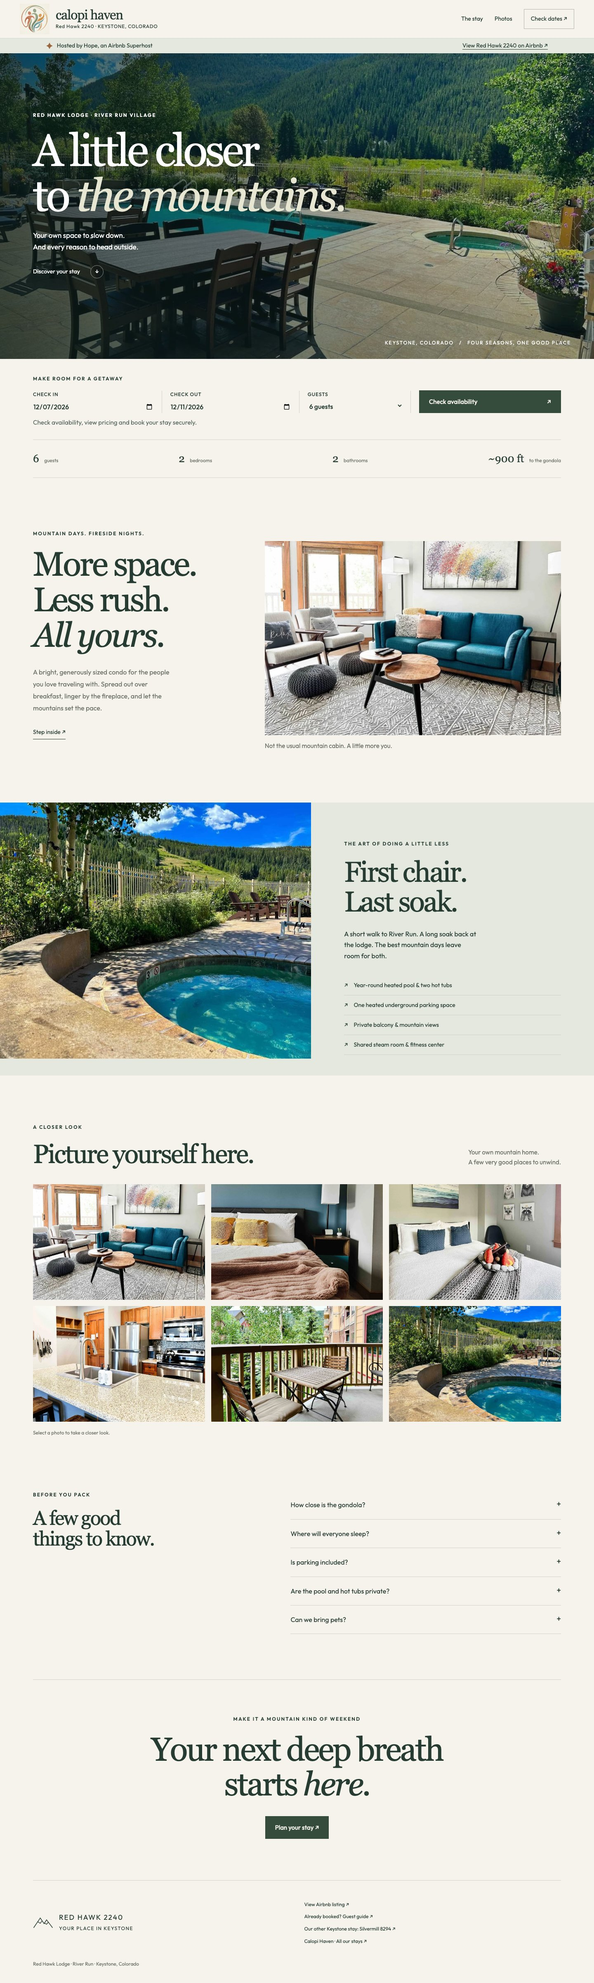
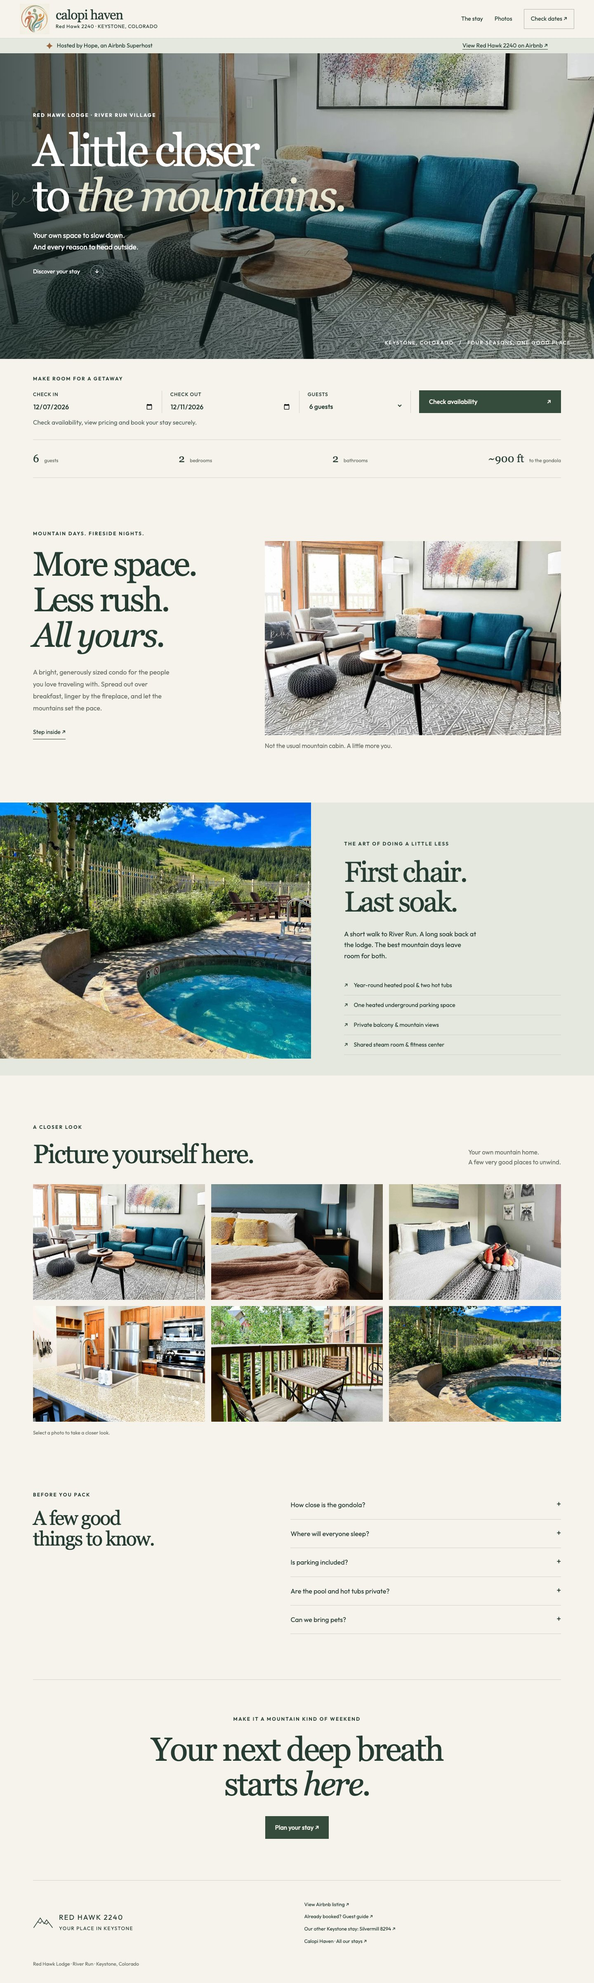
Lead each condo page with its own living room photo

Changed region(s): [[0.0, 0.0, 1.0, 0.1875]]

diff --git a/silvermill.html b/silvermill.html
@@ -1,3 +1,3 @@
 <!DOCTYPE html>
 
-<html lang="en"><head><meta charset="utf-8"/><meta content="width=device-width, initial-scale=1" name="viewport"/><meta content="noindex,nofollow" name="robots"/><title>Silvermill 8294 | Your River Run Village retreat</title><meta content="Stay at Silvermill 8294 in Keystone: a renovated one-bedroom condo for up to 4 adults and 1 child in River Run Village, with hot tubs and a short walk to the gondola. Book your stay directly." name="description"/><link href="assets/calopi-favicon.png" rel="icon" type="image/png"/><link href="styles.css" rel="stylesheet"/><link href="calopi.css" rel="stylesheet"/></head><body class="alpine selected-site"><a class="skip-link" href="#main">Skip to content</a><header class="haven-header property-header"><a aria-label="Calopi Haven home" class="haven-brand" data-preview-path="index.html" href="https://calopihaven.com/"><img alt="" class="calopi-logo" height="1024" src="assets/calopi-logo.png" width="987"/><span>calopi haven<small class="property-identity">Silvermill 8294 · KEYSTONE, COLORADO</small></span></a><nav aria-label="Main navigation"><a href="#stay">The stay</a><a href="#gallery">Photos</a><a class="haven-outline" href="#book">Check dates ↗</a></nav></header><aside aria-label="Your host and Airbnb listing" class="host-trust"><p><span aria-hidden="true">✦</span> Hosted by Hope, an Airbnb Superhost</p><a href="https://www.airbnb.com/rooms/1237080165740047360" rel="noopener" target="_blank">View Silvermill 8294 on Airbnb ↗</a></aside><main id="main"><section class="alpine-hero"><img alt="Snow-covered River Run Village and Keystone mountains at dusk" class="hero-image" fetchpriority="high" loading="eager" src="assets/silvermill/81.webp"/><div class="hero-shade"></div><div class="alpine-hero-copy wrap"><p class="eyebrow">SILVERMILL LODGE · RIVER RUN VILLAGE</p><h1>A little closer<br/>to <em>everything.</em></h1><p>Village mornings. Mountain days.<br/>Your own place in the middle of it all.</p><a class="hero-link" href="#stay">Discover your stay <span>↓</span></a></div><span class="hero-coordinate">KEYSTONE, COLORADO   /   FOUR SEASONS, ONE GOOD PLACE</span></section><section class="alpine-book wrap" id="book"><p class="eyebrow">MAKE ROOM FOR A GETAWAY</p><form action="https://app.ownerrez.com/widgets/c10114d38806484bbd3c7bfd9bf4858e" class="booking-form" data-max-adults="4" data-max-children="1" data-max-guests="5" method="get"><input name="view" type="hidden" value="form"/><input name="propertyKey" type="hidden" value="3f15f3b1b0f548328ab5276d7014358a"/><label>CHECK IN<input aria-label="Check-in date" name="or_arrival" required="" type="date"/></label><label>CHECK OUT<input aria-label="Check-out date" name="or_departure" required="" type="date"/></label><label>ADULTS<select aria-label="Adults" name="or_adults"><option value="1">1 adult</option><option selected="" value="2">2 adults</option><option value="3">3 adults</option><option value="4">4 adults</option></select></label><label>CHILDREN<select aria-label="Children" name="or_children"><option value="0">0 children</option><option value="1">1 child</option></select></label><button class="button" type="submit">Check availability <span>↗</span></button><p class="date-error" role="alert"></p></form><p class="booking-handoff">Check availability, view pricing and book your stay securely.</p></section><div class="facts wrap"><span><b>4 + 1</b> adults + child</span><span><b>1</b> bedroom</span><span><b>1</b> bathroom</span><span><b>&lt;700 ft</b> to the gondola</span></div><section class="editorial wrap" id="stay"><div><p class="eyebrow">A SMALLER STAY. A LITTLE MORE EASE.</p><h2>Village life.<br/>Mountain views.<br/><em>All yours.</em></h2><p>A renovated fifth-floor retreat for couples, small families and a few favorite friends. Slow mornings in a king bed. Coffee by the window. Evenings around the fireplace after a day on the mountain.</p><a class="underlink" href="#gallery">Step inside ↗</a></div><figure><button aria-label="Enlarge: Silvermill living room with a sectional sofa and village views" class="photo" data-caption="Silvermill living room with a sectional sofa and village views" data-photo="assets/silvermill/08.webp"><img alt="Silvermill living room with a sectional sofa and village views" loading="lazy" src="assets/silvermill/08.webp"/></button><figcaption>Room to settle in. Every reason to step outside.</figcaption></figure></section><section class="amenity-story" id="explore"><div class="amenity-photo"><img alt="Outdoor hot tubs in the Silvermill courtyard" loading="lazy" src="assets/silvermill/49.webp"/></div><div><p class="eyebrow">THE VILLAGE AT YOUR DOORSTEP</p><h2>First chair.<br/>Last soak.</h2><p>Walk through River Run Village to the gondola in under three minutes. Come home to a soak in the shared courtyard hot tubs, or find your next favorite spot for dinner just outside.</p><ul class="amenity-list"><li>On-site shared hot tubs &amp; sauna</li><li>Year-round heated pool at nearby Dakota Lodge</li><li>One heated underground parking space</li><li>Private ski locker, fitness center &amp; billiards lounge</li></ul></div></section><section class="gallery-section wrap" id="gallery"><div class="section-top"><div><p class="eyebrow">A CLOSER LOOK</p><h2>Picture yourself here.</h2></div><p>Your River Run retreat.<br/>A few very good places to unwind.</p></div><div class="gallery-grid"><button aria-label="Enlarge: Living room with fireplace and mountain-inspired artwork" class="photo" data-caption="Living room with fireplace and mountain-inspired artwork" data-photo="assets/silvermill/00.webp"><img alt="Living room with fireplace and mountain-inspired artwork" loading="lazy" src="assets/silvermill/00.webp"/></button><button aria-label="Enlarge: King bedroom with soft linens and an upholstered headboard" class="photo" data-caption="King bedroom with soft linens and an upholstered headboard" data-photo="assets/silvermill/21.webp"><img alt="King bedroom with soft linens and an upholstered headboard" loading="lazy" src="assets/silvermill/21.webp"/></button><button aria-label="Enlarge: Full kitchen with breakfast bar seating" class="photo" data-caption="Full kitchen with breakfast bar seating" data-photo="assets/silvermill/10.webp"><img alt="Full kitchen with breakfast bar seating" loading="lazy" src="assets/silvermill/10.webp"/></button><button aria-label="Enlarge: Bedroom workspace overlooking River Run Village" class="photo" data-caption="Bedroom workspace overlooking River Run Village" data-photo="assets/silvermill/25.webp"><img alt="Bedroom workspace overlooking River Run Village" loading="lazy" src="assets/silvermill/25.webp"/></button><button aria-label="Enlarge: Bathroom with shower and bathtub" class="photo" data-caption="Bathroom with shower and bathtub" data-photo="assets/silvermill/28.webp"><img alt="Bathroom with shower and bathtub" loading="lazy" src="assets/silvermill/28.webp"/></button><button aria-label="Enlarge: Shared billiards lounge at Silvermill Lodge" class="photo" data-caption="Shared billiards lounge at Silvermill Lodge" data-photo="assets/silvermill/53.webp"><img alt="Shared billiards lounge at Silvermill Lodge" loading="lazy" src="assets/silvermill/53.webp"/></button></div><p class="gallery-note">Select a photo to take a closer look.</p></section><section class="faq wrap"><div><p class="eyebrow">BEFORE YOU PACK</p><h2>A few good<br/>things to know.</h2></div><div><details><summary>How close is the gondola?</summary><p>The condo is in River Run Village, less than 700 feet from the River Run Gondola. Walk through the village to reach the lift, dining and shops.</p></details><details><summary>Where will everyone sleep?</summary><p>The one-bedroom condo sleeps up to 4 adults and 1 child, with a king bed, a twin sleeper chair in the bedroom and a pull-out sofa in the living room. There is one full bathroom.</p></details><details><summary>Is parking included?</summary><p>One heated underground garage parking space and a private ski locker are included. An elevator serves the building. Additional vehicles need separate parking arrangements.</p></details><details><summary>Where are the pool and hot tubs?</summary><p>The shared hot tubs are on site at Silvermill. The year-round heated pool is accessed at nearby Dakota Lodge. All shared amenities are subject to building access and maintenance.</p></details><details><summary>What are the check-in and check-out times?</summary><p>Check-in is after 4 PM and check-out is before 10 AM. Already booked? Use the guest guide linked below for arrival instructions.</p></details><details><summary>Where can I see the rental policies?</summary><p>Pricing and booking terms are shown for your selected stay. Review the rental agreement and cancellation policy before completing your reservation.</p></details></div></section><section class="closing wrap"><p class="eyebrow">MAKE IT A MOUNTAIN KIND OF WEEKEND</p><h2>Your next deep breath<br/>starts <em>here.</em></h2><a class="button" href="#book">Plan your stay ↗</a></section></main><footer class="site-footer wrap"><a class="brand" data-preview-path="silvermill.html" href="https://silvermill8294.com/"><svg aria-hidden="true" viewbox="0 0 64 40"><path d="M2 36 23 5l12 18 8-12 19 25M15 17l8 5 5-7M36 21l7 4 5-6" fill="none" stroke="currentColor" stroke-width="2"></path></svg><span>SILVERMILL <b>8294</b><small>YOUR PLACE IN KEYSTONE</small></span></a><div><a href="https://www.airbnb.com/rooms/1237080165740047360" rel="noopener" target="_blank">View Airbnb listing ↗</a><a href="http://checkin.silvermill8294.com/" rel="noopener" target="_blank">Already booked? Guest guide ↗</a><a data-preview-path="redhawk.html" href="https://redhawk2240.com/">Our other Keystone stay: Red Hawk 2240 ↗</a><a data-preview-path="index.html" href="https://calopihaven.com/">Calopi Haven · All our stays ↗</a></div><p>Silvermill Lodge · River Run · Keystone, Colorado</p></footer><dialog class="lightbox"><button aria-label="Close photo" class="dialog-close">×</button><img alt=""/><p></p><div class="lightbox-controls"><button aria-label="Previous photo" data-direction="-1">← Previous</button><button aria-label="Next photo" data-direction="1">Next →</button></div></dialog><script src="site.js"></script></body></html>
+<html lang="en"><head><meta charset="utf-8"/><meta content="width=device-width, initial-scale=1" name="viewport"/><meta content="noindex,nofollow" name="robots"/><title>Silvermill 8294 | Your River Run Village retreat</title><meta content="Stay at Silvermill 8294 in Keystone: a renovated one-bedroom condo for up to 4 adults and 1 child in River Run Village, with hot tubs and a short walk to the gondola. Book your stay directly." name="description"/><link href="assets/calopi-favicon.png" rel="icon" type="image/png"/><link href="styles.css" rel="stylesheet"/><link href="calopi.css" rel="stylesheet"/></head><body class="alpine selected-site"><a class="skip-link" href="#main">Skip to content</a><header class="haven-header property-header"><a aria-label="Calopi Haven home" class="haven-brand" data-preview-path="index.html" href="https://calopihaven.com/"><img alt="" class="calopi-logo" height="1024" src="assets/calopi-logo.png" width="987"/><span>calopi haven<small class="property-identity">Silvermill 8294 · KEYSTONE, COLORADO</small></span></a><nav aria-label="Main navigation"><a href="#stay">The stay</a><a href="#gallery">Photos</a><a class="haven-outline" href="#book">Check dates ↗</a></nav></header><aside aria-label="Your host and Airbnb listing" class="host-trust"><p><span aria-hidden="true">✦</span> Hosted by Hope, an Airbnb Superhost</p><a href="https://www.airbnb.com/rooms/1237080165740047360" rel="noopener" target="_blank">View Silvermill 8294 on Airbnb ↗</a></aside><main id="main"><section class="alpine-hero"><img alt="Silvermill 8294 living room with bright windows, a sectional sofa and mountain-inspired artwork" class="hero-image" fetchpriority="high" loading="eager" src="assets/silvermill/08.webp"/><div class="hero-shade"></div><div class="alpine-hero-copy wrap"><p class="eyebrow">SILVERMILL LODGE · RIVER RUN VILLAGE</p><h1>A little closer<br/>to <em>everything.</em></h1><p>Village mornings. Mountain days.<br/>Your own place in the middle of it all.</p><a class="hero-link" href="#stay">Discover your stay <span>↓</span></a></div><span class="hero-coordinate">KEYSTONE, COLORADO   /   FOUR SEASONS, ONE GOOD PLACE</span></section><section class="alpine-book wrap" id="book"><p class="eyebrow">MAKE ROOM FOR A GETAWAY</p><form action="https://app.ownerrez.com/widgets/c10114d38806484bbd3c7bfd9bf4858e" class="booking-form" data-max-adults="4" data-max-children="1" data-max-guests="5" method="get"><input name="view" type="hidden" value="form"/><input name="propertyKey" type="hidden" value="3f15f3b1b0f548328ab5276d7014358a"/><label>CHECK IN<input aria-label="Check-in date" name="or_arrival" required="" type="date"/></label><label>CHECK OUT<input aria-label="Check-out date" name="or_departure" required="" type="date"/></label><label>ADULTS<select aria-label="Adults" name="or_adults"><option value="1">1 adult</option><option selected="" value="2">2 adults</option><option value="3">3 adults</option><option value="4">4 adults</option></select></label><label>CHILDREN<select aria-label="Children" name="or_children"><option value="0">0 children</option><option value="1">1 child</option></select></label><button class="button" type="submit">Check availability <span>↗</span></button><p class="date-error" role="alert"></p></form><p class="booking-handoff">Check availability, view pricing and book your stay securely.</p></section><div class="facts wrap"><span><b>4 + 1</b> adults + child</span><span><b>1</b> bedroom</span><span><b>1</b> bathroom</span><span><b>&lt;700 ft</b> to the gondola</span></div><section class="editorial wrap" id="stay"><div><p class="eyebrow">A SMALLER STAY. A LITTLE MORE EASE.</p><h2>Village life.<br/>Mountain views.<br/><em>All yours.</em></h2><p>A renovated fifth-floor retreat for couples, small families and a few favorite friends. Slow mornings in a king bed. Coffee by the window. Evenings around the fireplace after a day on the mountain.</p><a class="underlink" href="#gallery">Step inside ↗</a></div><figure><button aria-label="Enlarge: Silvermill living room with a sectional sofa and village views" class="photo" data-caption="Silvermill living room with a sectional sofa and village views" data-photo="assets/silvermill/08.webp"><img alt="Silvermill living room with a sectional sofa and village views" loading="lazy" src="assets/silvermill/08.webp"/></button><figcaption>Room to settle in. Every reason to step outside.</figcaption></figure></section><section class="amenity-story" id="explore"><div class="amenity-photo"><img alt="Outdoor hot tubs in the Silvermill courtyard" loading="lazy" src="assets/silvermill/49.webp"/></div><div><p class="eyebrow">THE VILLAGE AT YOUR DOORSTEP</p><h2>First chair.<br/>Last soak.</h2><p>Walk through River Run Village to the gondola in under three minutes. Come home to a soak in the shared courtyard hot tubs, or find your next favorite spot for dinner just outside.</p><ul class="amenity-list"><li>On-site shared hot tubs &amp; sauna</li><li>Year-round heated pool at nearby Dakota Lodge</li><li>One heated underground parking space</li><li>Private ski locker, fitness center &amp; billiards lounge</li></ul></div></section><section class="gallery-section wrap" id="gallery"><div class="section-top"><div><p class="eyebrow">A CLOSER LOOK</p><h2>Picture yourself here.</h2></div><p>Your River Run retreat.<br/>A few very good places to unwind.</p></div><div class="gallery-grid"><button aria-label="Enlarge: Living room with fireplace and mountain-inspired artwork" class="photo" data-caption="Living room with fireplace and mountain-inspired artwork" data-photo="assets/silvermill/00.webp"><img alt="Living room with fireplace and mountain-inspired artwork" loading="lazy" src="assets/silvermill/00.webp"/></button><button aria-label="Enlarge: King bedroom with soft linens and an upholstered headboard" class="photo" data-caption="King bedroom with soft linens and an upholstered headboard" data-photo="assets/silvermill/21.webp"><img alt="King bedroom with soft linens and an upholstered headboard" loading="lazy" src="assets/silvermill/21.webp"/></button><button aria-label="Enlarge: Full kitchen with breakfast bar seating" class="photo" data-caption="Full kitchen with breakfast bar seating" data-photo="assets/silvermill/10.webp"><img alt="Full kitchen with breakfast bar seating" loading="lazy" src="assets/silvermill/10.webp"/></button><button aria-label="Enlarge: Bedroom workspace overlooking River Run Village" class="photo" data-caption="Bedroom workspace overlooking River Run Village" data-photo="assets/silvermill/25.webp"><img alt="Bedroom workspace overlooking River Run Village" loading="lazy" src="assets/silvermill/25.webp"/></button><button aria-label="Enlarge: Bathroom with shower and bathtub" class="photo" data-caption="Bathroom with shower and bathtub" data-photo="assets/silvermill/28.webp"><img alt="Bathroom with shower and bathtub" loading="lazy" src="assets/silvermill/28.webp"/></button><button aria-label="Enlarge: Shared billiards lounge at Silvermill Lodge" class="photo" data-caption="Shared billiards lounge at Silvermill Lodge" data-photo="assets/silvermill/53.webp"><img alt="Shared billiards lounge at Silvermill Lodge" loading="lazy" src="assets/silvermill/53.webp"/></button></div><p class="gallery-note">Select a photo to take a closer look.</p></section><section class="faq wrap"><div><p class="eyebrow">BEFORE YOU PACK</p><h2>A few good<br/>things to know.</h2></div><div><details><summary>How close is the gondola?</summary><p>The condo is in River Run Village, less than 700 feet from the River Run Gondola. Walk through the village to reach the lift, dining and shops.</p></details><details><summary>Where will everyone sleep?</summary><p>The one-bedroom condo sleeps up to 4 adults and 1 child, with a king bed, a twin sleeper chair in the bedroom and a pull-out sofa in the living room. There is one full bathroom.</p></details><details><summary>Is parking included?</summary><p>One heated underground garage parking space and a private ski locker are included. An elevator serves the building. Additional vehicles need separate parking arrangements.</p></details><details><summary>Where are the pool and hot tubs?</summary><p>The shared hot tubs are on site at Silvermill. The year-round heated pool is accessed at nearby Dakota Lodge. All shared amenities are subject to building access and maintenance.</p></details><details><summary>What are the check-in and check-out times?</summary><p>Check-in is after 4 PM and check-out is before 10 AM. Already booked? Use the guest guide linked below for arrival instructions.</p></details><details><summary>Where can I see the rental policies?</summary><p>Pricing and booking terms are shown for your selected stay. Review the rental agreement and cancellation policy before completing your reservation.</p></details></div></section><section class="closing wrap"><p class="eyebrow">MAKE IT A MOUNTAIN KIND OF WEEKEND</p><h2>Your next deep breath<br/>starts <em>here.</em></h2><a class="button" href="#book">Plan your stay ↗</a></section></main><footer class="site-footer wrap"><a class="brand" data-preview-path="silvermill.html" href="https://silvermill8294.com/"><svg aria-hidden="true" viewbox="0 0 64 40"><path d="M2 36 23 5l12 18 8-12 19 25M15 17l8 5 5-7M36 21l7 4 5-6" fill="none" stroke="currentColor" stroke-width="2"></path></svg><span>SILVERMILL <b>8294</b><small>YOUR PLACE IN KEYSTONE</small></span></a><div><a href="https://www.airbnb.com/rooms/1237080165740047360" rel="noopener" target="_blank">View Airbnb listing ↗</a><a href="http://checkin.silvermill8294.com/" rel="noopener" target="_blank">Already booked? Guest guide ↗</a><a data-preview-path="redhawk.html" href="https://redhawk2240.com/">Our other Keystone stay: Red Hawk 2240 ↗</a><a data-preview-path="index.html" href="https://calopihaven.com/">Calopi Haven · All our stays ↗</a></div><p>Silvermill Lodge · River Run · Keystone, Colorado</p></footer><dialog class="lightbox"><button aria-label="Close photo" class="dialog-close">×</button><img alt=""/><p></p><div class="lightbox-controls"><button aria-label="Previous photo" data-direction="-1">← Previous</button><button aria-label="Next photo" data-direction="1">Next →</button></div></dialog><script src="site.js"></script></body></html>

diff --git a/redhawk.html b/redhawk.html
@@ -1,3 +1,3 @@
 <!DOCTYPE html>
 
-<html lang="en"><head><meta charset="utf-8"/><meta content="width=device-width, initial-scale=1" name="viewport"/><meta content="noindex,nofollow" name="robots"/><title>Red Hawk 2240 | A mountain stay in Keystone</title><meta content="Stay at Red Hawk 2240 in Keystone: two bedrooms, space for six, a pool and hot tubs near River Run. Check dates and book your stay directly." name="description"/><link href="assets/calopi-favicon.png" rel="icon" type="image/png"/><link href="styles.css" rel="stylesheet"/><link href="calopi.css" rel="stylesheet"/></head><body class="alpine selected-site"><a class="skip-link" href="#main">Skip to content</a><header class="haven-header property-header"><a aria-label="Calopi Haven home" class="haven-brand" data-preview-path="index.html" href="https://calopihaven.com/"><img alt="" class="calopi-logo" height="1024" src="assets/calopi-logo.png" width="987"/><span>calopi haven<small class="property-identity">Red Hawk 2240 · KEYSTONE, COLORADO</small></span></a><nav aria-label="Main navigation"><a href="#stay">The stay</a><a href="#gallery">Photos</a><a class="haven-outline" href="#book">Check dates ↗</a></nav></header><aside aria-label="Your host and Airbnb listing" class="host-trust"><p><span aria-hidden="true">✦</span> Hosted by Hope, an Airbnb Superhost</p><a href="https://www.airbnb.com/rooms/45842208" rel="noopener" target="_blank">View Red Hawk 2240 on Airbnb ↗</a></aside><main id="main"><section class="alpine-hero"><img alt="Heated pool and sunlit mountains at Red Hawk Lodge" class="hero-image" height="1080" loading="eager" src="assets/photo-00.webp" width="1440"/><div class="hero-shade"></div><div class="alpine-hero-copy wrap"><p class="eyebrow">RED HAWK LODGE · RIVER RUN VILLAGE</p><h1>A little closer<br/>to <em>the mountains.</em></h1><p>Your own space to slow down.<br/>And every reason to head outside.</p><a class="hero-link" href="#stay">Discover your stay <span>↓</span></a></div><span class="hero-coordinate">KEYSTONE, COLORADO   /   FOUR SEASONS, ONE GOOD PLACE</span></section><section class="alpine-book wrap" id="book"><p class="eyebrow">MAKE ROOM FOR A GETAWAY</p><form action="https://app.ownerrez.com/widgets/f13cd4d5594545a4b410a094355b8b4d" class="booking-form" method="get"><input name="view" type="hidden" value="form"/><input name="propertyKey" type="hidden" value="bc7244c04d284b70baab4dede8d52fb0"/><label>CHECK IN<input aria-label="Check-in date" name="or_arrival" required="" type="date"/></label><label>CHECK OUT<input aria-label="Check-out date" name="or_departure" required="" type="date"/></label><label>GUESTS<select aria-label="Guests" name="or_guests"><option value="1">1 guest</option><option selected="" value="2">2 guests</option><option value="3">3 guests</option><option value="4">4 guests</option><option value="5">5 guests</option><option value="6">6 guests</option></select></label><button class="button" type="submit">Check availability <span>↗</span></button><p class="date-error" role="alert"></p></form><p class="booking-handoff">Check availability, view pricing and book your stay securely.</p></section><div class="facts wrap"><span><b>6</b> guests</span><span><b>2</b> bedrooms</span><span><b>2</b> bathrooms</span><span><b>~900 ft</b> to the gondola</span></div><section class="editorial wrap" id="stay"><div><p class="eyebrow">MOUNTAIN DAYS. FIRESIDE NIGHTS.</p><h2>More space.<br/>Less rush.<br/><em>All yours.</em></h2><p>A bright, generously sized condo for the people you love traveling with. Spread out over breakfast, linger by the fireplace, and let the mountains set the pace.</p><a class="underlink" href="#gallery">Step inside ↗</a></div><figure><button aria-label="Enlarge: Contemporary living room with teal sofa and warm wood finishes" class="photo" data-caption="Contemporary living room with teal sofa and warm wood finishes" data-photo="assets/photo-01.webp"><img alt="Contemporary living room with teal sofa and warm wood finishes" class="" height="1080" loading="lazy" src="assets/photo-01.webp" width="1440"/></button><figcaption>Not the usual mountain cabin. A little more you.</figcaption></figure></section><section class="amenity-story" id="explore"><div class="amenity-photo"><img alt="Outdoor hot tub surrounded by aspens and mountain scenery" class="" height="1080" loading="lazy" src="assets/photo-24.webp" width="1440"/></div><div><p class="eyebrow">THE ART OF DOING A LITTLE LESS</p><h2>First chair.<br/>Last soak.</h2><p>A short walk to River Run. A long soak back at the lodge. The best mountain days leave room for both.</p><ul class="amenity-list"><li>Year-round heated pool &amp; two hot tubs</li><li>One heated underground parking space</li><li>Private balcony &amp; mountain views</li><li>Shared steam room &amp; fitness center</li></ul></div></section><section class="gallery-section wrap" id="gallery"><div class="section-top"><div><p class="eyebrow">A CLOSER LOOK</p><h2>Picture yourself here.</h2></div><p>Your own mountain home.<br/>A few very good places to unwind.</p></div><div class="gallery-grid"><button aria-label="Enlarge: Bright living room with teal sofa and mountain light" class="photo" data-caption="Bright living room with teal sofa and mountain light" data-photo="assets/photo-01.webp"><img alt="Bright living room with teal sofa and mountain light" class="" height="1080" loading="lazy" src="assets/photo-01.webp" width="1440"/></button><button aria-label="Enlarge: King bedroom with an ensuite bathroom" class="photo" data-caption="King bedroom with an ensuite bathroom" data-photo="assets/photo-09.webp"><img alt="King bedroom with an ensuite bathroom" class="" height="1080" loading="lazy" src="assets/photo-09.webp" width="1440"/></button><button aria-label="Enlarge: Queen bedroom with large windows" class="photo" data-caption="Queen bedroom with large windows" data-photo="assets/photo-12.webp"><img alt="Queen bedroom with large windows" class="" height="1080" loading="lazy" src="assets/photo-12.webp" width="1440"/></button><button aria-label="Enlarge: Fully equipped kitchen and breakfast counter" class="photo" data-caption="Fully equipped kitchen and breakfast counter" data-photo="assets/photo-14.webp"><img alt="Fully equipped kitchen and breakfast counter" class="" height="1080" loading="lazy" src="assets/photo-14.webp" width="1440"/></button><button aria-label="Enlarge: Private balcony framed by aspen trees" class="photo" data-caption="Private balcony framed by aspen trees" data-photo="assets/photo-05.webp"><img alt="Private balcony framed by aspen trees" class="" height="1080" loading="lazy" src="assets/photo-05.webp" width="1440"/></button><button aria-label="Enlarge: Shared outdoor hot tub with mountain views" class="photo" data-caption="Shared outdoor hot tub with mountain views" data-photo="assets/photo-24.webp"><img alt="Shared outdoor hot tub with mountain views" class="" height="1080" loading="lazy" src="assets/photo-24.webp" width="1440"/></button></div><p class="gallery-note">Select a photo to take a closer look.</p></section><section class="faq wrap"><div><p class="eyebrow">BEFORE YOU PACK</p><h2>A few good<br/>things to know.</h2></div><div><details><summary>How close is the gondola?</summary><p>The listing describes an approximately 900-foot walk to the River Run Gondola and Village. Bring comfortable shoes for the short walk.</p></details><details><summary>Where will everyone sleep?</summary><p>A king bedroom, a queen bedroom and a fold-away Murphy bed give your group room to settle in. The condo accommodates up to six overnight guests, with two full bathrooms.</p></details><details><summary>Is parking included?</summary><p>One space in the heated underground garage is included. An elevator serves the building. Additional vehicles need separate parking arrangements.</p></details><details><summary>Are the pool and hot tubs private?</summary><p>The heated pool, two hot tubs, steam room, fitness center and game room are shared Red Hawk Lodge amenities, subject to building access and maintenance.</p></details><details><summary>Can we bring pets?</summary><p>The current house rules do not allow pets or smoking. Please review the full rules and current conditions before reserving.</p></details></div></section><section class="closing wrap"><p class="eyebrow">MAKE IT A MOUNTAIN KIND OF WEEKEND</p><h2>Your next deep breath<br/>starts <em>here.</em></h2><a class="button" href="#book">Plan your stay ↗</a></section></main><footer class="site-footer wrap"><a class="brand" data-preview-path="redhawk.html" href="https://redhawk2240.com/"><svg aria-hidden="true" viewbox="0 0 64 40"><path d="M2 36 23 5l12 18 8-12 19 25M15 17l8 5 5-7M36 21l7 4 5-6" fill="none" stroke="currentColor" stroke-width="2"></path></svg><span>RED HAWK <b>2240</b><small>YOUR PLACE IN KEYSTONE</small></span></a><div><a href="https://www.airbnb.com/rooms/45842208" rel="noopener" target="_blank">View Airbnb listing ↗</a><a href="https://checkin.redhawk2240.com" rel="noopener" target="_blank">Already booked? Guest guide ↗</a><a data-preview-path="silvermill.html" href="https://silvermill8294.com/">Our other Keystone stay: Silvermill 8294 ↗</a><a data-preview-path="index.html" href="https://calopihaven.com/">Calopi Haven · All our stays ↗</a></div><p>Red Hawk Lodge · River Run · Keystone, Colorado</p></footer><dialog class="lightbox"><button aria-label="Close photo" class="dialog-close">×</button><img alt=""/><p></p><div class="lightbox-controls"><button aria-label="Previous photo" data-direction="-1">← Previous</button><button aria-label="Next photo" data-direction="1">Next →</button></div></dialog><script src="site.js"></script></body></html>
+<html lang="en"><head><meta charset="utf-8"/><meta content="width=device-width, initial-scale=1" name="viewport"/><meta content="noindex,nofollow" name="robots"/><title>Red Hawk 2240 | A mountain stay in Keystone</title><meta content="Stay at Red Hawk 2240 in Keystone: two bedrooms, space for six, a pool and hot tubs near River Run. Check dates and book your stay directly." name="description"/><link href="assets/calopi-favicon.png" rel="icon" type="image/png"/><link href="styles.css" rel="stylesheet"/><link href="calopi.css" rel="stylesheet"/></head><body class="alpine selected-site"><a class="skip-link" href="#main">Skip to content</a><header class="haven-header property-header"><a aria-label="Calopi Haven home" class="haven-brand" data-preview-path="index.html" href="https://calopihaven.com/"><img alt="" class="calopi-logo" height="1024" src="assets/calopi-logo.png" width="987"/><span>calopi haven<small class="property-identity">Red Hawk 2240 · KEYSTONE, COLORADO</small></span></a><nav aria-label="Main navigation"><a href="#stay">The stay</a><a href="#gallery">Photos</a><a class="haven-outline" href="#book">Check dates ↗</a></nav></header><aside aria-label="Your host and Airbnb listing" class="host-trust"><p><span aria-hidden="true">✦</span> Hosted by Hope, an Airbnb Superhost</p><a href="https://www.airbnb.com/rooms/45842208" rel="noopener" target="_blank">View Red Hawk 2240 on Airbnb ↗</a></aside><main id="main"><section class="alpine-hero"><img alt="Red Hawk 2240 living room with a teal sofa, fireplace and space to gather" class="hero-image" height="1080" loading="eager" src="assets/photo-01.webp" width="1440"/><div class="hero-shade"></div><div class="alpine-hero-copy wrap"><p class="eyebrow">RED HAWK LODGE · RIVER RUN VILLAGE</p><h1>A little closer<br/>to <em>the mountains.</em></h1><p>Your own space to slow down.<br/>And every reason to head outside.</p><a class="hero-link" href="#stay">Discover your stay <span>↓</span></a></div><span class="hero-coordinate">KEYSTONE, COLORADO   /   FOUR SEASONS, ONE GOOD PLACE</span></section><section class="alpine-book wrap" id="book"><p class="eyebrow">MAKE ROOM FOR A GETAWAY</p><form action="https://app.ownerrez.com/widgets/f13cd4d5594545a4b410a094355b8b4d" class="booking-form" method="get"><input name="view" type="hidden" value="form"/><input name="propertyKey" type="hidden" value="bc7244c04d284b70baab4dede8d52fb0"/><label>CHECK IN<input aria-label="Check-in date" name="or_arrival" required="" type="date"/></label><label>CHECK OUT<input aria-label="Check-out date" name="or_departure" required="" type="date"/></label><label>GUESTS<select aria-label="Guests" name="or_guests"><option value="1">1 guest</option><option selected="" value="2">2 guests</option><option value="3">3 guests</option><option value="4">4 guests</option><option value="5">5 guests</option><option value="6">6 guests</option></select></label><button class="button" type="submit">Check availability <span>↗</span></button><p class="date-error" role="alert"></p></form><p class="booking-handoff">Check availability, view pricing and book your stay securely.</p></section><div class="facts wrap"><span><b>6</b> guests</span><span><b>2</b> bedrooms</span><span><b>2</b> bathrooms</span><span><b>~900 ft</b> to the gondola</span></div><section class="editorial wrap" id="stay"><div><p class="eyebrow">MOUNTAIN DAYS. FIRESIDE NIGHTS.</p><h2>More space.<br/>Less rush.<br/><em>All yours.</em></h2><p>A bright, generously sized condo for the people you love traveling with. Spread out over breakfast, linger by the fireplace, and let the mountains set the pace.</p><a class="underlink" href="#gallery">Step inside ↗</a></div><figure><button aria-label="Enlarge: Contemporary living room with teal sofa and warm wood finishes" class="photo" data-caption="Contemporary living room with teal sofa and warm wood finishes" data-photo="assets/photo-01.webp"><img alt="Contemporary living room with teal sofa and warm wood finishes" class="" height="1080" loading="lazy" src="assets/photo-01.webp" width="1440"/></button><figcaption>Not the usual mountain cabin. A little more you.</figcaption></figure></section><section class="amenity-story" id="explore"><div class="amenity-photo"><img alt="Outdoor hot tub surrounded by aspens and mountain scenery" class="" height="1080" loading="lazy" src="assets/photo-24.webp" width="1440"/></div><div><p class="eyebrow">THE ART OF DOING A LITTLE LESS</p><h2>First chair.<br/>Last soak.</h2><p>A short walk to River Run. A long soak back at the lodge. The best mountain days leave room for both.</p><ul class="amenity-list"><li>Year-round heated pool &amp; two hot tubs</li><li>One heated underground parking space</li><li>Private balcony &amp; mountain views</li><li>Shared steam room &amp; fitness center</li></ul></div></section><section class="gallery-section wrap" id="gallery"><div class="section-top"><div><p class="eyebrow">A CLOSER LOOK</p><h2>Picture yourself here.</h2></div><p>Your own mountain home.<br/>A few very good places to unwind.</p></div><div class="gallery-grid"><button aria-label="Enlarge: Bright living room with teal sofa and mountain light" class="photo" data-caption="Bright living room with teal sofa and mountain light" data-photo="assets/photo-01.webp"><img alt="Bright living room with teal sofa and mountain light" class="" height="1080" loading="lazy" src="assets/photo-01.webp" width="1440"/></button><button aria-label="Enlarge: King bedroom with an ensuite bathroom" class="photo" data-caption="King bedroom with an ensuite bathroom" data-photo="assets/photo-09.webp"><img alt="King bedroom with an ensuite bathroom" class="" height="1080" loading="lazy" src="assets/photo-09.webp" width="1440"/></button><button aria-label="Enlarge: Queen bedroom with large windows" class="photo" data-caption="Queen bedroom with large windows" data-photo="assets/photo-12.webp"><img alt="Queen bedroom with large windows" class="" height="1080" loading="lazy" src="assets/photo-12.webp" width="1440"/></button><button aria-label="Enlarge: Fully equipped kitchen and breakfast counter" class="photo" data-caption="Fully equipped kitchen and breakfast counter" data-photo="assets/photo-14.webp"><img alt="Fully equipped kitchen and breakfast counter" class="" height="1080" loading="lazy" src="assets/photo-14.webp" width="1440"/></button><button aria-label="Enlarge: Private balcony framed by aspen trees" class="photo" data-caption="Private balcony framed by aspen trees" data-photo="assets/photo-05.webp"><img alt="Private balcony framed by aspen trees" class="" height="1080" loading="lazy" src="assets/photo-05.webp" width="1440"/></button><button aria-label="Enlarge: Shared outdoor hot tub with mountain views" class="photo" data-caption="Shared outdoor hot tub with mountain views" data-photo="assets/photo-24.webp"><img alt="Shared outdoor hot tub with mountain views" class="" height="1080" loading="lazy" src="assets/photo-24.webp" width="1440"/></button></div><p class="gallery-note">Select a photo to take a closer look.</p></section><section class="faq wrap"><div><p class="eyebrow">BEFORE YOU PACK</p><h2>A few good<br/>things to know.</h2></div><div><details><summary>How close is the gondola?</summary><p>The listing describes an approximately 900-foot walk to the River Run Gondola and Village. Bring comfortable shoes for the short walk.</p></details><details><summary>Where will everyone sleep?</summary><p>A king bedroom, a queen bedroom and a fold-away Murphy bed give your group room to settle in. The condo accommodates up to six overnight guests, with two full bathrooms.</p></details><details><summary>Is parking included?</summary><p>One space in the heated underground garage is included. An elevator serves the building. Additional vehicles need separate parking arrangements.</p></details><details><summary>Are the pool and hot tubs private?</summary><p>The heated pool, two hot tubs, steam room, fitness center and game room are shared Red Hawk Lodge amenities, subject to building access and maintenance.</p></details><details><summary>Can we bring pets?</summary><p>The current house rules do not allow pets or smoking. Please review the full rules and current conditions before reserving.</p></details></div></section><section class="closing wrap"><p class="eyebrow">MAKE IT A MOUNTAIN KIND OF WEEKEND</p><h2>Your next deep breath<br/>starts <em>here.</em></h2><a class="button" href="#book">Plan your stay ↗</a></section></main><footer class="site-footer wrap"><a class="brand" data-preview-path="redhawk.html" href="https://redhawk2240.com/"><svg aria-hidden="true" viewbox="0 0 64 40"><path d="M2 36 23 5l12 18 8-12 19 25M15 17l8 5 5-7M36 21l7 4 5-6" fill="none" stroke="currentColor" stroke-width="2"></path></svg><span>RED HAWK <b>2240</b><small>YOUR PLACE IN KEYSTONE</small></span></a><div><a href="https://www.airbnb.com/rooms/45842208" rel="noopener" target="_blank">View Airbnb listing ↗</a><a href="https://checkin.redhawk2240.com" rel="noopener" target="_blank">Already booked? Guest guide ↗</a><a data-preview-path="silvermill.html" href="https://silvermill8294.com/">Our other Keystone stay: Silvermill 8294 ↗</a><a data-preview-path="index.html" href="https://calopihaven.com/">Calopi Haven · All our stays ↗</a></div><p>Red Hawk Lodge · River Run · Keystone, Colorado</p></footer><dialog class="lightbox"><button aria-label="Close photo" class="dialog-close">×</button><img alt=""/><p></p><div class="lightbox-controls"><button aria-label="Previous photo" data-direction="-1">← Previous</button><button aria-label="Next photo" data-direction="1">Next →</button></div></dialog><script src="site.js"></script></body></html>

diff --git a/scripts/build_property_sites.py b/scripts/build_property_sites.py
@@ -9,6 +9,8 @@ def selected():
  s.select_one('.concept-bar').decompose()
  s.body['class'].append('selected-site')
  s.title.string='Red Hawk 2240 | A mountain stay in Keystone'
+ s.select_one('.hero-image')['src']='assets/photo-01.webp'
+ s.select_one('.hero-image')['alt']='Red Hawk 2240 living room with a teal sofa, fireplace and space to gather'
  s.select_one('meta[name=description]')['content']='Stay at Red Hawk 2240 in Keystone: two bedrooms, space for six, a pool and hot tubs near River Run. Check dates and book your stay directly.'
  for a in s.select('.brand'):a['href']='redhawk.html'
  s.select_one('.site-footer > div').append(BeautifulSoup('<a href="silvermill.html">Our other Keystone stay: Silvermill 8294 ↗</a>','html.parser'))
@@ -31,7 +33,7 @@ for a in s.select('.brand'):a['href']='silvermill.html'
 form=s.select_one('.booking-form');form['data-max-guests']='5';form['data-max-adults']='4';form['data-max-children']='1'
 guest_label=s.select_one('select[name=or_guests]').parent
 guest_label.replace_with(BeautifulSoup('<label>ADULTS<select name="or_adults" aria-label="Adults">'+''.join(f'<option value="{i}" {"selected" if i==2 else ""}>{i} adult{"s" if i>1 else ""}</option>' for i in range(1,5))+'</select></label><label>CHILDREN<select name="or_children" aria-label="Children">'+''.join(f'<option value="{i}">{i} child{"ren" if i!=1 else ""}</option>' for i in range(2))+'</select></label>','html.parser'))
-replace(s,'.hero-image',image(81,'Snow-covered River Run Village and Keystone mountains at dusk',True))
+replace(s,'.hero-image',image(8,'Silvermill 8294 living room with bright windows, a sectional sofa and mountain-inspired artwork',True))
 s.select_one('.alpine-hero .eyebrow').string='SILVERMILL LODGE · RIVER RUN VILLAGE'
 s.select_one('h1').clear();s.select_one('h1').append(BeautifulSoup('A little closer<br/>to <em>everything.</em>','html.parser'))
 s.select_one('.alpine-hero-copy > p:not(.eyebrow)').clear();s.select_one('.alpine-hero-copy > p:not(.eyebrow)').append(BeautifulSoup('Village mornings. Mountain days.<br/>Your own place in the middle of it all.','html.parser'))

diff --git a/scripts/build_domains.py b/scripts/build_domains.py
@@ -19,7 +19,7 @@ for domain,page in [('calopihaven.com','index.html'),('redhawk2240.com','redhawk
   document.select_one('meta[name=robots]').decompose()
   canonical='https://'+domain+'/'
   document.head.append(document.new_tag('link',rel='canonical',href=canonical))
-  image='assets/keystone-schoolmarm.webp' if domain=='calopihaven.com' else 'assets/photo-00.webp' if domain=='redhawk2240.com' else 'assets/silvermill/81.webp'
+  image='assets/keystone-schoolmarm.webp' if domain=='calopihaven.com' else 'assets/photo-01.webp' if domain=='redhawk2240.com' else 'assets/silvermill/08.webp'
   for key,value in {'og:type':'website','og:url':canonical,'og:title':document.title.text,'og:description':document.select_one('meta[name=description]')['content'],'og:image':canonical+image,'twitter:card':'summary_large_image'}.items():
    tag=document.new_tag('meta',attrs={'property' if key.startswith('og:') else 'name':key,'content':value});document.head.append(tag)
   for anchor in document.select('a[href]'):

diff --git a/AGENTS.md b/AGENTS.md
@@ -20,6 +20,10 @@ Do not treat it as one site with interchangeable booking widgets.
   checks across the main site and both properties. `calopi.css` styles the
   brand homepage and shared Calopi header on both property sites. Property
   headers reuse the main logo/wordmark and name the current property below it.
+- Each property hero must show its own living room immediately: Red Hawk uses
+  `assets/photo-01.webp`; Silvermill uses `assets/silvermill/08.webp`. Production
+  social previews use the same property-specific photos. Keep Keystone skiing
+  as the main Calopi hero’s first slide.
 - Alpine is the selected property design. `gatherings.html`, `summit.html`,
   `concepts.html` and the older review PDF are historical design concepts.
 - GitHub Pages is the **review preview**, not the production hosting target:
